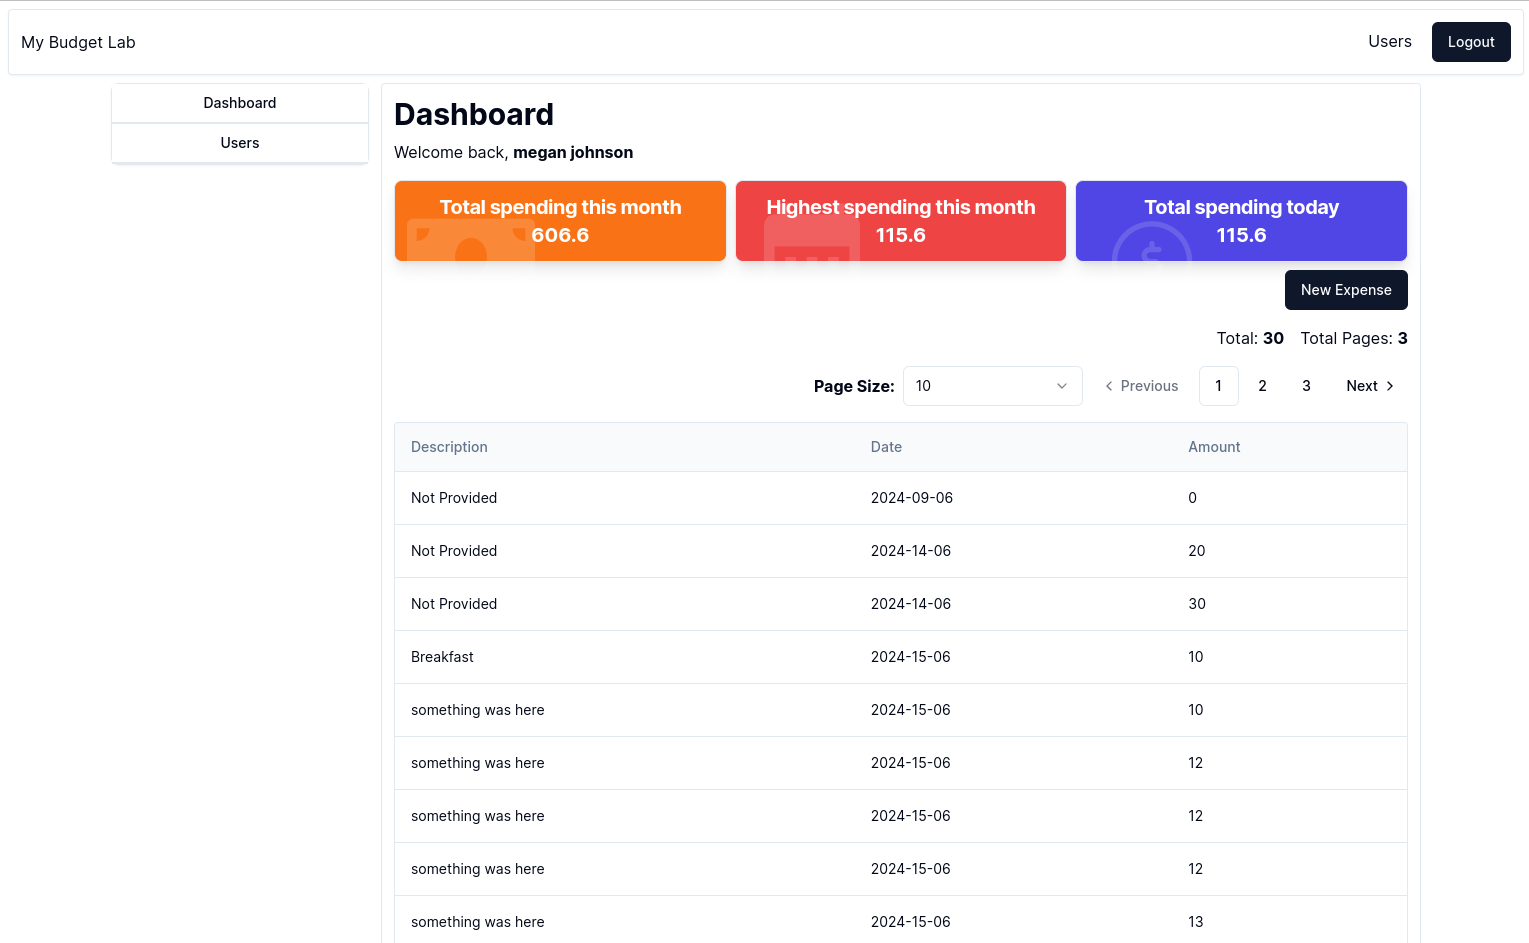
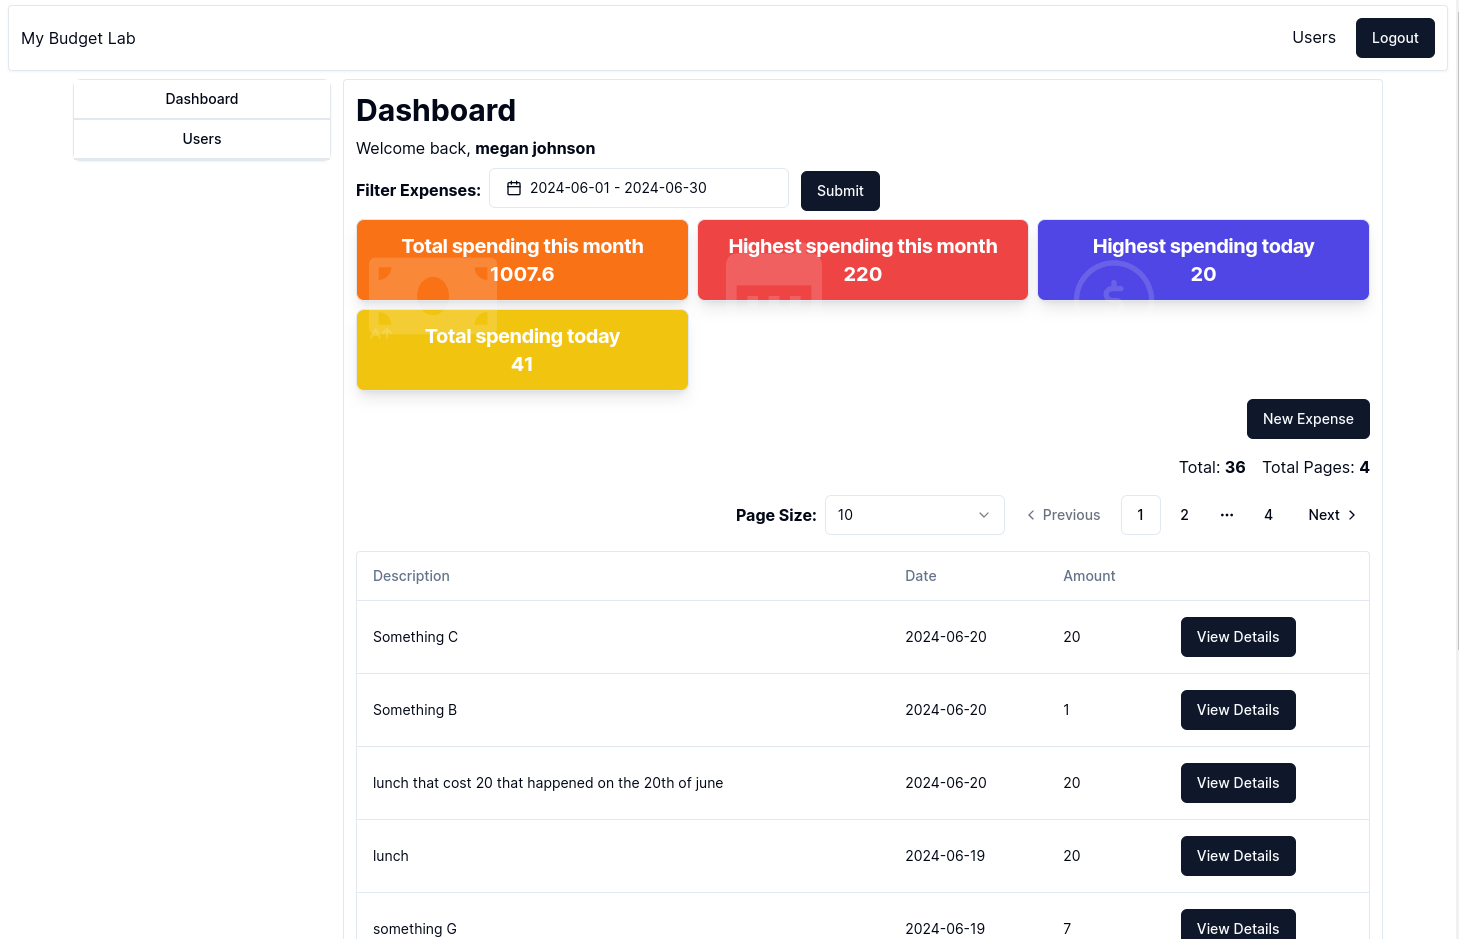
update read me

diff --git a/README.md b/README.md
@@ -16,3 +16,6 @@ located at `http://localhost:8080/swagger-ui/index.html`.
 ![dashboard](./screenshots/dashboard.png)
 ![register](./screenshots/register.png)
 ![login](./screenshots/login.png)
+![expense-details](./screenshots/expense-details.png)
+![expense-date-filter](./screenshots/expense-date-filter.png)
+![new-expense](./screenshots/new-expense.png)
